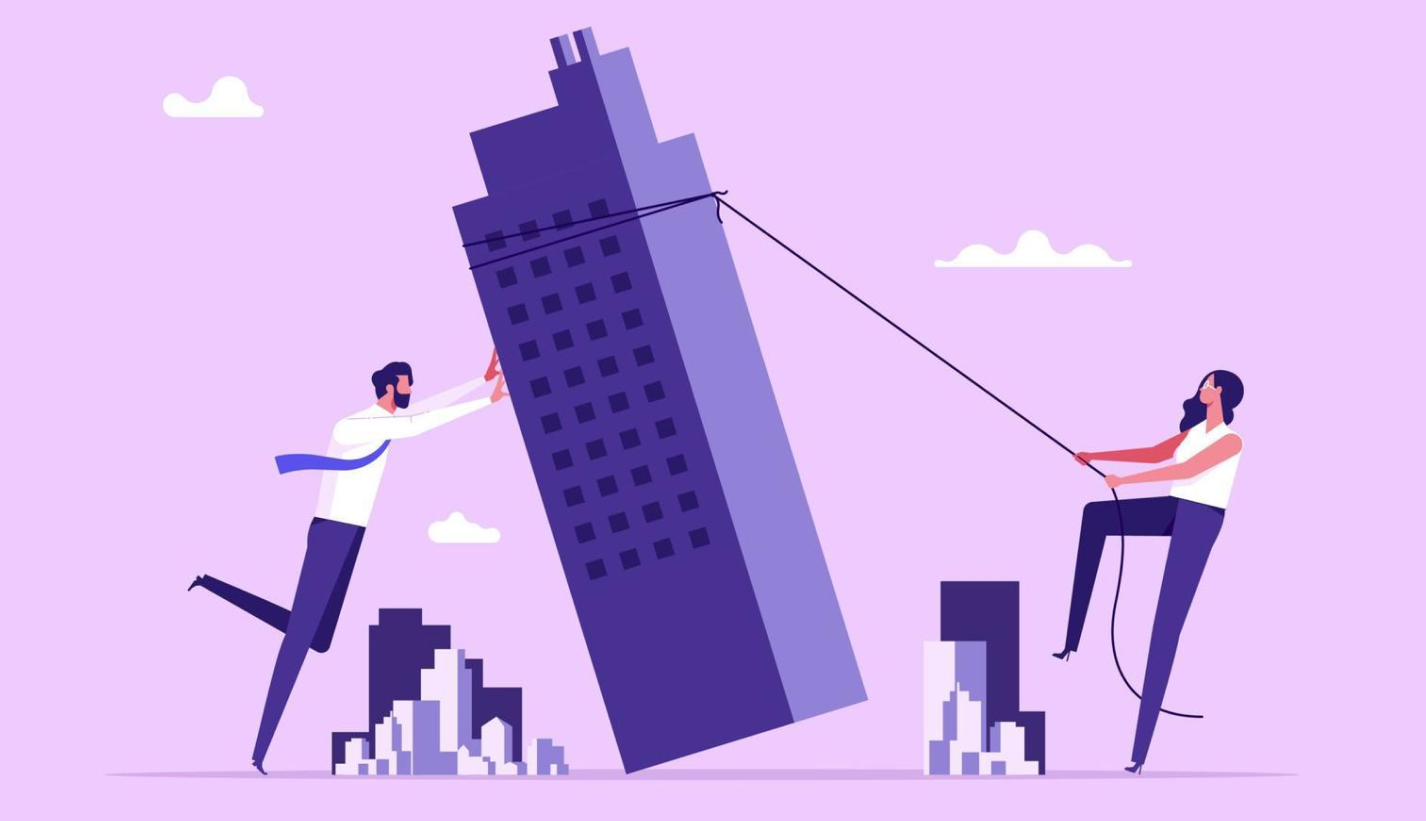
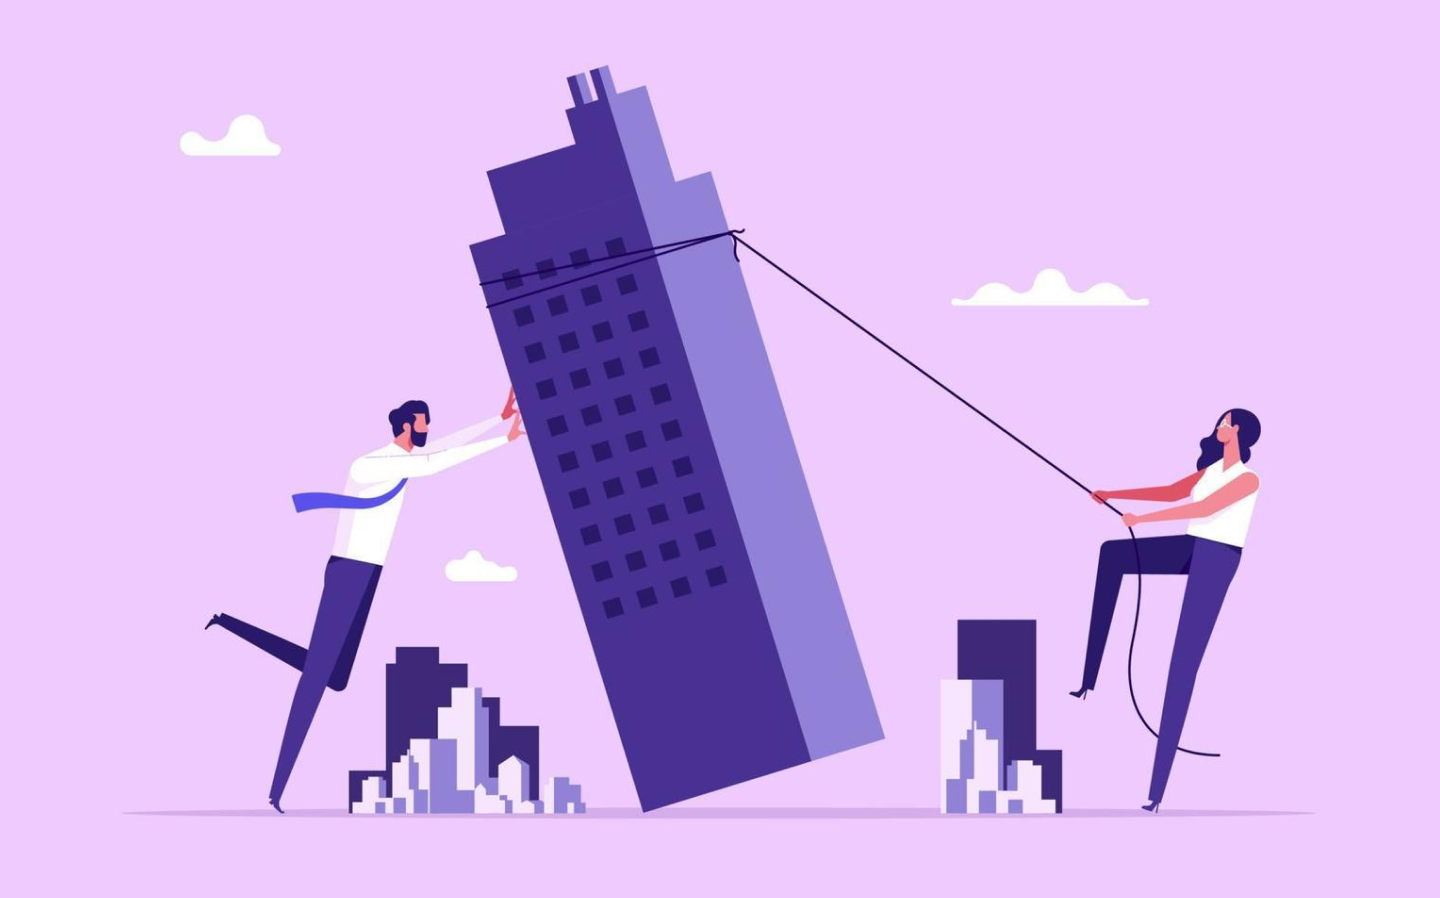
foi

diff --git a/src/pages/inicio/index.scss b/src/pages/inicio/index.scss
@@ -5,29 +5,29 @@
 
 
    
-     .faixa {
-
-        height: 45.9vw;
+    .faixa {
+        height: 44vw;
         background-repeat: no-repeat;
-        background-size: cover;
-        width: 100%;
-
+        background-color: #EFCAFE;  
+        background-size: contain;  
+        background-position: center; 
+    
         .texto-faixa {
             display: flex;
             justify-content: space-between;
             padding-left: 10vw;
             padding-right: 10vw;
             padding-top: 6vw;
+            
             h2 {
                 font-family: 'Urbanist', sans-serif;
                 font-weight: 700;
                 color: #6E2275;
                 font-size: 4vw;
             }
-            
         }
-        
-     }
+    }
+    
 
     
 

diff --git a/src/pages/inicio/index.jsx b/src/pages/inicio/index.jsx
@@ -21,7 +21,7 @@ export default function Inicio() {
 
             />
 
-            <div className="faixa" style={{ backgroundImage: `url('/assets/images/inicio/preview.svg')` }} >
+            <div className="faixa" style={{ backgroundImage: `url('/assets/images/inicio/image.png')` }} >
 
 
                 <div className='texto-faixa'>
